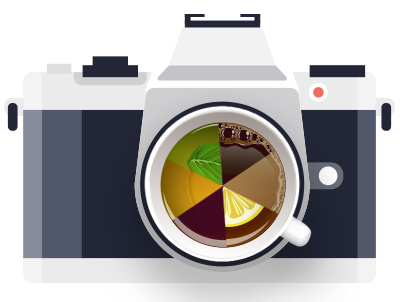
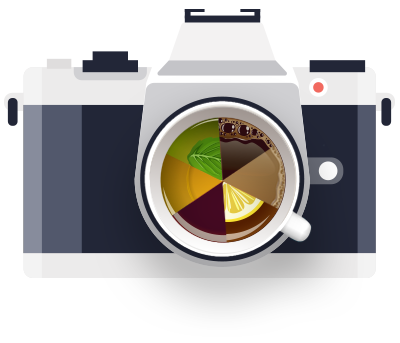
Continued styling and content changes

diff --git a/index.html b/index.html
@@ -33,149 +33,22 @@
     <div class="wrapper">
       <h2>we'll have a tea, please.</h2>
       <span class="mugshot-logo"></span>
-      <p>FINALLY, a solution to the problems associated with making drinks for your colleagues!</p>
-      <p>Do you work in an office? When you get up to make a drink, does everyone around you gaze in your direction doe-eyed and slide their mugs towards you murmuring, "If you're going to the kitchen, I'll have a coffee please"?</p>
-      <p>Have you felt the pain of carrying two fistfuls of mugs to the kettle and then trying to work out who wanted to drink what? And who wanted sugar today? And which cup belongs to who?</p>
-      <p>Luckily, Mugshot is here to help! Simply use the app to take a picture of the relevant drinking vestibule (a mugshot, if you will), and then choose the drink and milk/sugar requirements. The app will display a list of pictures and the relevant drinks next to them to take away the stress and guesswork associated with the tea round chore!</p>
+      <p>A solution to the problem of carrying two fistfuls of mugs to the kitchen and then trying to work out which drink goes where.</p>
+      <p>Whip out your phone and use the app to snap a quick picture of the relevant drinking vestibule (a mugshot, if you will), and then choose the drink and milk/sugar requirements. You'll get a list of pictures and the relevant drinks next to them to take away the stress and guesswork associated with the tea round chore!</p>
+      <span class="add-drink"></span>
+
       <p>Surprise and delight your co-workers with perfect drinks every time!</p>
     </div>
   </div>
   <div class="page page-third">
     <div class="wrapper">
-      <svg version="1.1" id="US_UK_Download_on_the" xmlns="http://www.w3.org/2000/svg" xmlns:xlink="http://www.w3.org/1999/xlink"
-    	 x="0px" y="0px" width="255px" height="75px" viewBox="0 0 135 40" enable-background="new 0 0 135 40" xml:space="preserve">
-    <g>
-    	<path fill="#A6A6A6" d="M130.197,40H4.729C2.122,40,0,37.872,0,35.267V4.726C0,2.12,2.122,0,4.729,0h125.468
-    		C132.803,0,135,2.12,135,4.726v30.541C135,37.872,132.803,40,130.197,40L130.197,40z"/>
-    	<path d="M134.032,35.268c0,2.116-1.714,3.83-3.834,3.83H4.729c-2.119,0-3.839-1.714-3.839-3.83V4.725
-    		c0-2.115,1.72-3.835,3.839-3.835h125.468c2.121,0,3.834,1.72,3.834,3.835L134.032,35.268L134.032,35.268z"/>
-    	<g>
-    		<g>
-    			<path fill="#FFFFFF" d="M30.128,19.784c-0.029-3.223,2.639-4.791,2.761-4.864c-1.511-2.203-3.853-2.504-4.676-2.528
-    				c-1.967-0.207-3.875,1.177-4.877,1.177c-1.022,0-2.565-1.157-4.228-1.123c-2.14,0.033-4.142,1.272-5.24,3.196
-    				c-2.266,3.923-0.576,9.688,1.595,12.859c1.086,1.553,2.355,3.287,4.016,3.226c1.625-0.067,2.232-1.036,4.193-1.036
-    				c1.943,0,2.513,1.036,4.207,0.997c1.744-0.028,2.842-1.56,3.89-3.127c1.255-1.78,1.759-3.533,1.779-3.623
-    				C33.507,24.924,30.161,23.647,30.128,19.784z"/>
-    			<path fill="#FFFFFF" d="M26.928,10.306c0.874-1.093,1.472-2.58,1.306-4.089c-1.265,0.056-2.847,0.875-3.758,1.944
-    				c-0.806,0.942-1.526,2.486-1.34,3.938C24.557,12.205,26.016,11.382,26.928,10.306z"/>
-    		</g>
-    	</g>
-    	<g>
-    		<path fill="#FFFFFF" d="M53.645,31.504h-2.271l-1.244-3.909h-4.324l-1.185,3.909h-2.211l4.284-13.308h2.646L53.645,31.504z
-    			 M49.755,25.955L48.63,22.48c-0.119-0.355-0.342-1.191-0.671-2.507h-0.04c-0.131,0.566-0.342,1.402-0.632,2.507l-1.105,3.475
-    			H49.755z"/>
-    		<path fill="#FFFFFF" d="M64.662,26.588c0,1.632-0.441,2.922-1.323,3.869c-0.79,0.843-1.771,1.264-2.942,1.264
-    			c-1.264,0-2.172-0.454-2.725-1.362h-0.04v5.055h-2.132V25.067c0-1.026-0.027-2.079-0.079-3.159h1.875l0.119,1.521h0.04
-    			c0.711-1.146,1.79-1.718,3.238-1.718c1.132,0,2.077,0.447,2.833,1.342C64.284,23.949,64.662,25.127,64.662,26.588z M62.49,26.666
-    			c0-0.934-0.21-1.704-0.632-2.31c-0.461-0.632-1.08-0.948-1.856-0.948c-0.526,0-1.004,0.176-1.431,0.523
-    			c-0.428,0.35-0.708,0.807-0.839,1.373c-0.066,0.264-0.099,0.48-0.099,0.65v1.6c0,0.698,0.214,1.287,0.642,1.768
-    			s0.984,0.721,1.668,0.721c0.803,0,1.428-0.31,1.875-0.928C62.266,28.496,62.49,27.68,62.49,26.666z"/>
-    		<path fill="#FFFFFF" d="M75.699,26.588c0,1.632-0.441,2.922-1.324,3.869c-0.789,0.843-1.77,1.264-2.941,1.264
-    			c-1.264,0-2.172-0.454-2.724-1.362H68.67v5.055h-2.132V25.067c0-1.026-0.027-2.079-0.079-3.159h1.875l0.119,1.521h0.04
-    			c0.71-1.146,1.789-1.718,3.238-1.718c1.131,0,2.076,0.447,2.834,1.342C75.32,23.949,75.699,25.127,75.699,26.588z M73.527,26.666
-    			c0-0.934-0.211-1.704-0.633-2.31c-0.461-0.632-1.078-0.948-1.855-0.948c-0.527,0-1.004,0.176-1.432,0.523
-    			c-0.428,0.35-0.707,0.807-0.838,1.373c-0.065,0.264-0.099,0.48-0.099,0.65v1.6c0,0.698,0.214,1.287,0.64,1.768
-    			c0.428,0.48,0.984,0.721,1.67,0.721c0.803,0,1.428-0.31,1.875-0.928C73.303,28.496,73.527,27.68,73.527,26.666z"/>
-    		<path fill="#FFFFFF" d="M88.039,27.772c0,1.132-0.393,2.053-1.182,2.764c-0.867,0.777-2.074,1.165-3.625,1.165
-    			c-1.432,0-2.58-0.276-3.449-0.829l0.494-1.777c0.936,0.566,1.963,0.85,3.082,0.85c0.803,0,1.428-0.182,1.877-0.544
-    			c0.447-0.362,0.67-0.848,0.67-1.454c0-0.54-0.184-0.995-0.553-1.364c-0.367-0.369-0.98-0.712-1.836-1.029
-    			c-2.33-0.869-3.494-2.142-3.494-3.816c0-1.094,0.408-1.991,1.225-2.689c0.814-0.699,1.9-1.048,3.258-1.048
-    			c1.211,0,2.217,0.211,3.02,0.632l-0.533,1.738c-0.75-0.408-1.598-0.612-2.547-0.612c-0.75,0-1.336,0.185-1.756,0.553
-    			c-0.355,0.329-0.533,0.73-0.533,1.205c0,0.526,0.203,0.961,0.611,1.303c0.355,0.316,1,0.658,1.936,1.027
-    			c1.145,0.461,1.986,1,2.527,1.618C87.77,26.081,88.039,26.852,88.039,27.772z"/>
-    		<path fill="#FFFFFF" d="M95.088,23.508h-2.35v4.659c0,1.185,0.414,1.777,1.244,1.777c0.381,0,0.697-0.033,0.947-0.099l0.059,1.619
-    			c-0.42,0.157-0.973,0.236-1.658,0.236c-0.842,0-1.5-0.257-1.975-0.77c-0.473-0.514-0.711-1.376-0.711-2.587v-4.837h-1.4v-1.6h1.4
-    			v-1.757l2.094-0.632v2.389h2.35V23.508z"/>
-    		<path fill="#FFFFFF" d="M105.691,26.627c0,1.475-0.422,2.686-1.264,3.633c-0.883,0.975-2.055,1.461-3.516,1.461
-    			c-1.408,0-2.529-0.467-3.365-1.401s-1.254-2.113-1.254-3.534c0-1.487,0.43-2.705,1.293-3.652c0.861-0.948,2.023-1.422,3.484-1.422
-    			c1.408,0,2.541,0.467,3.396,1.402C105.283,24.021,105.691,25.192,105.691,26.627z M103.479,26.696
-    			c0-0.885-0.189-1.644-0.572-2.277c-0.447-0.766-1.086-1.148-1.914-1.148c-0.857,0-1.508,0.383-1.955,1.148
-    			c-0.383,0.634-0.572,1.405-0.572,2.317c0,0.885,0.189,1.644,0.572,2.276c0.461,0.766,1.105,1.148,1.936,1.148
-    			c0.814,0,1.453-0.39,1.914-1.168C103.281,28.347,103.479,27.58,103.479,26.696z"/>
-    		<path fill="#FFFFFF" d="M112.621,23.783c-0.211-0.039-0.436-0.059-0.672-0.059c-0.75,0-1.33,0.283-1.738,0.85
-    			c-0.355,0.5-0.533,1.132-0.533,1.895v5.035h-2.131l0.02-6.574c0-1.106-0.027-2.113-0.08-3.021h1.857l0.078,1.836h0.059
-    			c0.225-0.631,0.58-1.139,1.066-1.52c0.475-0.343,0.988-0.514,1.541-0.514c0.197,0,0.375,0.014,0.533,0.039V23.783z"/>
-    		<path fill="#FFFFFF" d="M122.156,26.252c0,0.382-0.025,0.704-0.078,0.967h-6.396c0.025,0.948,0.334,1.673,0.928,2.173
-    			c0.539,0.447,1.236,0.671,2.092,0.671c0.947,0,1.811-0.151,2.588-0.454l0.334,1.48c-0.908,0.396-1.98,0.593-3.217,0.593
-    			c-1.488,0-2.656-0.438-3.506-1.313c-0.848-0.875-1.273-2.05-1.273-3.524c0-1.447,0.395-2.652,1.186-3.613
-    			c0.828-1.026,1.947-1.539,3.355-1.539c1.383,0,2.43,0.513,3.141,1.539C121.873,24.047,122.156,25.055,122.156,26.252z
-    			 M120.123,25.699c0.014-0.632-0.125-1.178-0.414-1.639c-0.369-0.593-0.936-0.889-1.699-0.889c-0.697,0-1.264,0.289-1.697,0.869
-    			c-0.355,0.461-0.566,1.014-0.631,1.658H120.123z"/>
-    	</g>
-    	<g>
-    		<g>
-    			<path fill="#FFFFFF" d="M49.05,10.009c0,1.177-0.353,2.063-1.058,2.658c-0.653,0.549-1.581,0.824-2.783,0.824
-    				c-0.596,0-1.106-0.026-1.533-0.078V6.982c0.557-0.09,1.157-0.136,1.805-0.136c1.145,0,2.008,0.249,2.59,0.747
-    				C48.723,8.156,49.05,8.961,49.05,10.009z M47.945,10.038c0-0.763-0.202-1.348-0.606-1.756c-0.404-0.407-0.994-0.611-1.771-0.611
-    				c-0.33,0-0.611,0.022-0.844,0.068v4.889c0.129,0.02,0.365,0.029,0.708,0.029c0.802,0,1.421-0.223,1.857-0.669
-    				S47.945,10.892,47.945,10.038z"/>
-    			<path fill="#FFFFFF" d="M54.909,11.037c0,0.725-0.207,1.319-0.621,1.785c-0.434,0.479-1.009,0.718-1.727,0.718
-    				c-0.692,0-1.243-0.229-1.654-0.689c-0.41-0.459-0.615-1.038-0.615-1.736c0-0.73,0.211-1.329,0.635-1.794s0.994-0.698,1.712-0.698
-    				c0.692,0,1.248,0.229,1.669,0.688C54.708,9.757,54.909,10.333,54.909,11.037z M53.822,11.071c0-0.435-0.094-0.808-0.281-1.119
-    				c-0.22-0.376-0.533-0.564-0.94-0.564c-0.421,0-0.741,0.188-0.961,0.564c-0.188,0.311-0.281,0.69-0.281,1.138
-    				c0,0.435,0.094,0.808,0.281,1.119c0.227,0.376,0.543,0.564,0.951,0.564c0.4,0,0.714-0.191,0.94-0.574
-    				C53.725,11.882,53.822,11.506,53.822,11.071z"/>
-    			<path fill="#FFFFFF" d="M62.765,8.719l-1.475,4.714h-0.96l-0.611-2.047c-0.155-0.511-0.281-1.019-0.379-1.523h-0.019
-    				c-0.091,0.518-0.217,1.025-0.379,1.523l-0.649,2.047h-0.971l-1.387-4.714h1.077l0.533,2.241c0.129,0.53,0.235,1.035,0.32,1.513
-    				h0.019c0.078-0.394,0.207-0.896,0.389-1.503l0.669-2.25h0.854l0.641,2.202c0.155,0.537,0.281,1.054,0.378,1.552h0.029
-    				c0.071-0.485,0.178-1.002,0.32-1.552l0.572-2.202H62.765z"/>
-    			<path fill="#FFFFFF" d="M68.198,13.433H67.15v-2.7c0-0.832-0.316-1.248-0.95-1.248c-0.311,0-0.562,0.114-0.757,0.343
-    				c-0.193,0.229-0.291,0.499-0.291,0.808v2.796h-1.048v-3.366c0-0.414-0.013-0.863-0.038-1.349h0.921l0.049,0.737h0.029
-    				c0.122-0.229,0.304-0.418,0.543-0.569c0.284-0.176,0.602-0.265,0.95-0.265c0.44,0,0.806,0.142,1.097,0.427
-    				c0.362,0.349,0.543,0.87,0.543,1.562V13.433z"/>
-    			<path fill="#FFFFFF" d="M71.088,13.433h-1.047V6.556h1.047V13.433z"/>
-    			<path fill="#FFFFFF" d="M77.258,11.037c0,0.725-0.207,1.319-0.621,1.785c-0.434,0.479-1.01,0.718-1.727,0.718
-    				c-0.693,0-1.244-0.229-1.654-0.689c-0.41-0.459-0.615-1.038-0.615-1.736c0-0.73,0.211-1.329,0.635-1.794s0.994-0.698,1.711-0.698
-    				c0.693,0,1.248,0.229,1.67,0.688C77.057,9.757,77.258,10.333,77.258,11.037z M76.17,11.071c0-0.435-0.094-0.808-0.281-1.119
-    				c-0.219-0.376-0.533-0.564-0.939-0.564c-0.422,0-0.742,0.188-0.961,0.564c-0.188,0.311-0.281,0.69-0.281,1.138
-    				c0,0.435,0.094,0.808,0.281,1.119c0.227,0.376,0.543,0.564,0.951,0.564c0.4,0,0.713-0.191,0.939-0.574
-    				C76.074,11.882,76.17,11.506,76.17,11.071z"/>
-    			<path fill="#FFFFFF" d="M82.33,13.433h-0.941l-0.078-0.543h-0.029c-0.322,0.433-0.781,0.65-1.377,0.65
-    				c-0.445,0-0.805-0.143-1.076-0.427c-0.246-0.258-0.369-0.579-0.369-0.96c0-0.576,0.24-1.015,0.723-1.319
-    				c0.482-0.304,1.16-0.453,2.033-0.446V10.3c0-0.621-0.326-0.931-0.979-0.931c-0.465,0-0.875,0.117-1.229,0.349l-0.213-0.688
-    				c0.438-0.271,0.979-0.407,1.617-0.407c1.232,0,1.85,0.65,1.85,1.95v1.736C82.262,12.78,82.285,13.155,82.33,13.433z
-    				 M81.242,11.813v-0.727c-1.156-0.02-1.734,0.297-1.734,0.95c0,0.246,0.066,0.43,0.201,0.553c0.135,0.123,0.307,0.184,0.512,0.184
-    				c0.23,0,0.445-0.073,0.641-0.218c0.197-0.146,0.318-0.331,0.363-0.558C81.236,11.946,81.242,11.884,81.242,11.813z"/>
-    			<path fill="#FFFFFF" d="M88.285,13.433h-0.93l-0.049-0.757h-0.029c-0.297,0.576-0.803,0.864-1.514,0.864
-    				c-0.568,0-1.041-0.223-1.416-0.669s-0.562-1.025-0.562-1.736c0-0.763,0.203-1.381,0.611-1.853c0.395-0.44,0.879-0.66,1.455-0.66
-    				c0.633,0,1.076,0.213,1.328,0.64h0.02V6.556h1.049v5.607C88.248,12.622,88.26,13.045,88.285,13.433z M87.199,11.445v-0.786
-    				c0-0.136-0.01-0.246-0.029-0.33c-0.059-0.252-0.186-0.464-0.379-0.635c-0.195-0.171-0.43-0.257-0.701-0.257
-    				c-0.391,0-0.697,0.155-0.922,0.466c-0.223,0.311-0.336,0.708-0.336,1.193c0,0.466,0.107,0.844,0.322,1.135
-    				c0.227,0.31,0.533,0.465,0.916,0.465c0.344,0,0.619-0.129,0.828-0.388C87.1,12.069,87.199,11.781,87.199,11.445z"/>
-    			<path fill="#FFFFFF" d="M97.248,11.037c0,0.725-0.207,1.319-0.621,1.785c-0.434,0.479-1.008,0.718-1.727,0.718
-    				c-0.691,0-1.242-0.229-1.654-0.689c-0.41-0.459-0.615-1.038-0.615-1.736c0-0.73,0.211-1.329,0.635-1.794s0.994-0.698,1.713-0.698
-    				c0.691,0,1.248,0.229,1.668,0.688C97.047,9.757,97.248,10.333,97.248,11.037z M96.162,11.071c0-0.435-0.094-0.808-0.281-1.119
-    				c-0.221-0.376-0.533-0.564-0.941-0.564c-0.42,0-0.74,0.188-0.961,0.564c-0.188,0.311-0.281,0.69-0.281,1.138
-    				c0,0.435,0.094,0.808,0.281,1.119c0.227,0.376,0.543,0.564,0.951,0.564c0.4,0,0.715-0.191,0.941-0.574
-    				C96.064,11.882,96.162,11.506,96.162,11.071z"/>
-    			<path fill="#FFFFFF" d="M102.883,13.433h-1.047v-2.7c0-0.832-0.316-1.248-0.951-1.248c-0.311,0-0.562,0.114-0.756,0.343
-    				s-0.291,0.499-0.291,0.808v2.796h-1.049v-3.366c0-0.414-0.012-0.863-0.037-1.349h0.92l0.049,0.737h0.029
-    				c0.123-0.229,0.305-0.418,0.543-0.569c0.285-0.176,0.602-0.265,0.951-0.265c0.439,0,0.805,0.142,1.096,0.427
-    				c0.363,0.349,0.543,0.87,0.543,1.562V13.433z"/>
-    			<path fill="#FFFFFF" d="M109.936,9.504h-1.154v2.29c0,0.582,0.205,0.873,0.611,0.873c0.188,0,0.344-0.016,0.467-0.049
-    				l0.027,0.795c-0.207,0.078-0.479,0.117-0.814,0.117c-0.414,0-0.736-0.126-0.969-0.378c-0.234-0.252-0.35-0.676-0.35-1.271V9.504
-    				h-0.689V8.719h0.689V7.855l1.027-0.31v1.173h1.154V9.504z"/>
-    			<path fill="#FFFFFF" d="M115.484,13.433h-1.049v-2.68c0-0.845-0.316-1.268-0.949-1.268c-0.486,0-0.818,0.245-1,0.735
-    				c-0.031,0.103-0.049,0.229-0.049,0.377v2.835h-1.047V6.556h1.047v2.841h0.02c0.33-0.517,0.803-0.775,1.416-0.775
-    				c0.434,0,0.793,0.142,1.078,0.427c0.355,0.355,0.533,0.883,0.533,1.581V13.433z"/>
-    			<path fill="#FFFFFF" d="M121.207,10.853c0,0.188-0.014,0.346-0.039,0.475h-3.143c0.014,0.466,0.164,0.821,0.455,1.067
-    				c0.266,0.22,0.609,0.33,1.029,0.33c0.465,0,0.889-0.074,1.271-0.223l0.164,0.728c-0.447,0.194-0.973,0.291-1.582,0.291
-    				c-0.73,0-1.305-0.215-1.721-0.645c-0.418-0.43-0.625-1.007-0.625-1.731c0-0.711,0.193-1.303,0.582-1.775
-    				c0.406-0.504,0.955-0.756,1.648-0.756c0.678,0,1.193,0.252,1.541,0.756C121.068,9.77,121.207,10.265,121.207,10.853z
-    				 M120.207,10.582c0.008-0.311-0.061-0.579-0.203-0.805c-0.182-0.291-0.459-0.437-0.834-0.437c-0.342,0-0.621,0.142-0.834,0.427
-    				c-0.174,0.227-0.277,0.498-0.311,0.815H120.207z"/>
-    		</g>
-    	</g>
-    </g>
-    </svg>
+    <a class="apple-store-badge" href=""></a>
     <a class="google-play-badge" href="https://play.google.com/store/apps/details?id=com.mugshot"></a>
     </div>
   </div>
-  <div class="footer-container">
-    <footer class="wrapper">
-      <p class="footer-text">Copyright 2016 Freshly Baked Code Ltd.</p>
-    </footer>
-  </div>
+  <footer class="footer-container">
+    <p class="footer-text">Copyright 2016 Freshly Baked Code Ltd.</p>
+  </footer>
 
   <!-- <script src="js/main.js"></script> -->
 </body>

diff --git a/css/main.css b/css/main.css
@@ -62,7 +62,7 @@ textarea {
    ========================================================================== */
 
 body {
-    font: 16px/26px 'Open sans', Helvetica, Helvetica Neue, Arial;
+    font: 16px/1.8em 'Open sans', Helvetica, Helvetica Neue, Arial;
     color: #222636;
     font-weight: 300;
 }
@@ -72,7 +72,6 @@ body {
     margin: 0 5%;
     display: flex;
     flex-direction: column;
-    align-items: center;
 }
 
 /* ===============
@@ -95,18 +94,18 @@ h1 {
   background: rgba(36,39,50,0.93);
   padding: 10px;
   font-weight: 300;
+  align-self: center;
 }
 h2 {
   font-weight: 300;
   font-size: 2em;
   line-height: 1.2em;
   margin: 0;
-  /*text-align: center;*/
+  align-self: flex-start;
 }
 .page {
   display: flex;
   justify-content: center;
-  min-height: 60vh;
 }
 .page-first {
   align-items: center;
@@ -117,29 +116,49 @@ h2 {
   padding: 50px 0 0 0;
 }
 .page-third {
-  background: url(../img/phone-in-hand.jpg) no-repeat center center fixed;
+  /*background: url(../img/phone-in-hand.jpg) no-repeat center center fixed;*/
+  background: url(../img/phone-in-hand-with-coffee-mobile.jpg) no-repeat 70% center fixed;
   -webkit-background-size: cover;
   -moz-background-size: cover;
   -o-background-size: cover;
   background-size: cover;
   overflow: auto;
   padding-top: 30vh;
+  height: 60vh;
 }
 .mugshot-logo {
   background: url(../img/mugshot-camera.png) no-repeat;
   background-size: contain;
-  width: 70vw;
-  height: 53vw;
-  max-width: 400px;
+  width: 71vw;
+  height: 61vw;
+  max-width: 330px;
+  max-height: 283px;
+  display: block;
+  margin: 0px auto -15px auto;
+}
+.add-drink {
+  background: url(../img/add-drink.png) no-repeat;
+  background-size: contain;
+  width: 59vw;
+  height: 70vh;
+  display: block;
+  align-self: center;
+  margin-top: 20px;
+}
+.google-play-badge {
+  background: url(../img/google-play.png) no-repeat;
+  background-size: contain;
+  width: 80vw;
+  height: 35vw;
+  max-width: 646px;
   display: block;
   margin: 0 auto;
 }
-
-.google-play-badge {
-  background: url(../img/en_badge_web_generic.png) no-repeat;
+.apple-store-badge {
+  background: url(../img/apple-store.svg) no-repeat;
   background-size: contain;
-  width: 90vw;
-  height: 40vw;
+  width: 80vw;
+  height: 35vw;
   max-width: 646px;
   display: block;
   margin: 0 auto;
@@ -148,18 +167,37 @@ h2 {
 .footer-container {
   background: #2a2d38;
   overflow: auto;
-  max-height: 20vh;
+  height: 10vh;
   color: white;
+  display: flex;
+  align-items: center;
+  justify-content: center;
 }
 .footer-text {
   font-size: 0.8em;
   font-weight: 400;
+  margin: 0;
+  padding: 0;
 }
 
 
 /* ==========================================================================
    Media Queries
    ========================================================================== */
+@media only screen and (min-width: 370px) {
+  h2 {
+    font-size: 2.3em;
+  }
+  .mugshot-logo {
+    margin: 10px auto -25px auto
+  }
+}
+
+@media only screen and (min-width: 426px) {
+  .mugshot-logo {
+    margin: 20px auto -35px auto
+  }
+}
 
 @media only screen and (min-width: 480px) {
 
@@ -177,24 +215,28 @@ h2 {
 @media only screen and (min-width: 600px) {   /*Background changes*/
   html {
       background: url(../img/phone-on-table-with-coffee.jpg) no-repeat 30% center fixed;
+      -webkit-background-size: cover;
+      -moz-background-size: cover;
+      -o-background-size: cover;
       background-size: cover;
   }
 }
 
 @media only screen and (min-width: 768px) {
-/* ============
-    WIDE: Main
-   ============ */
-
-    .main article {
-        float: left;
-        width: 57%;
-    }
-
-    .main aside {
-        float: right;
-        width: 28%;
-    }
+  h2 {
+    align-self: center;
+  }
+  .wrapper {
+    width: 84%;
+    margin: 0 8%;
+  }
+  .page-third {
+    background: url(../img/phone-in-hand-with-coffee.jpg) no-repeat center center fixed;
+    -webkit-background-size: cover;
+    -moz-background-size: cover;
+    -o-background-size: cover;
+    background-size: cover;
+  }
 }
 
 @media only screen and (min-width: 1140px) {
